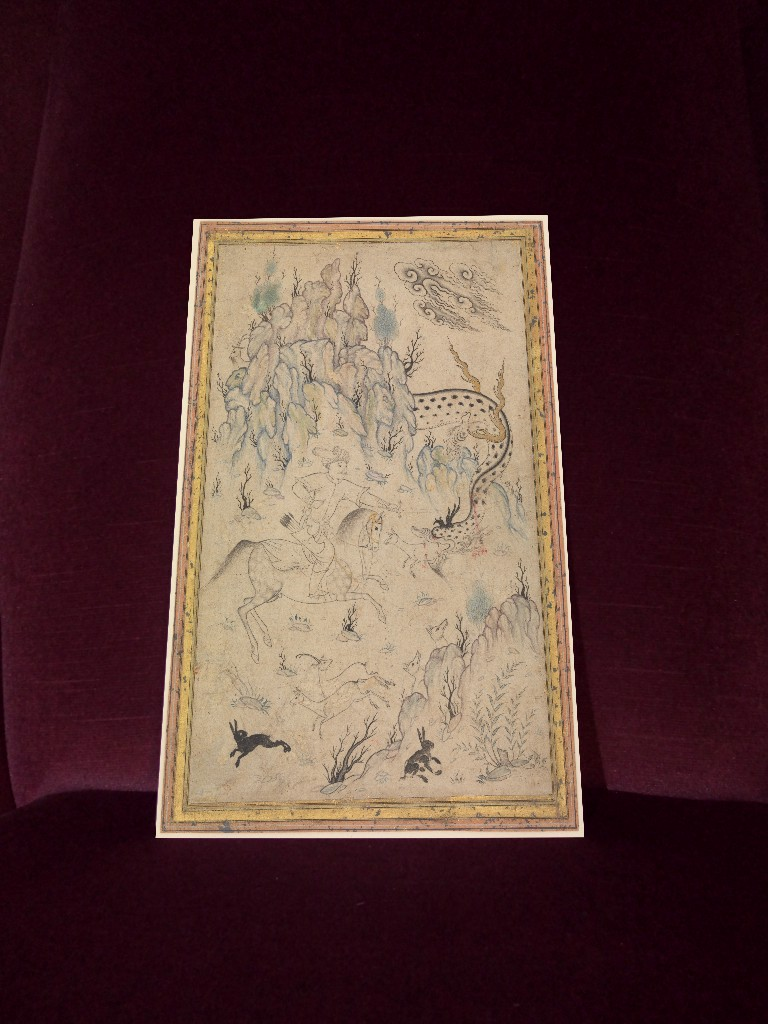
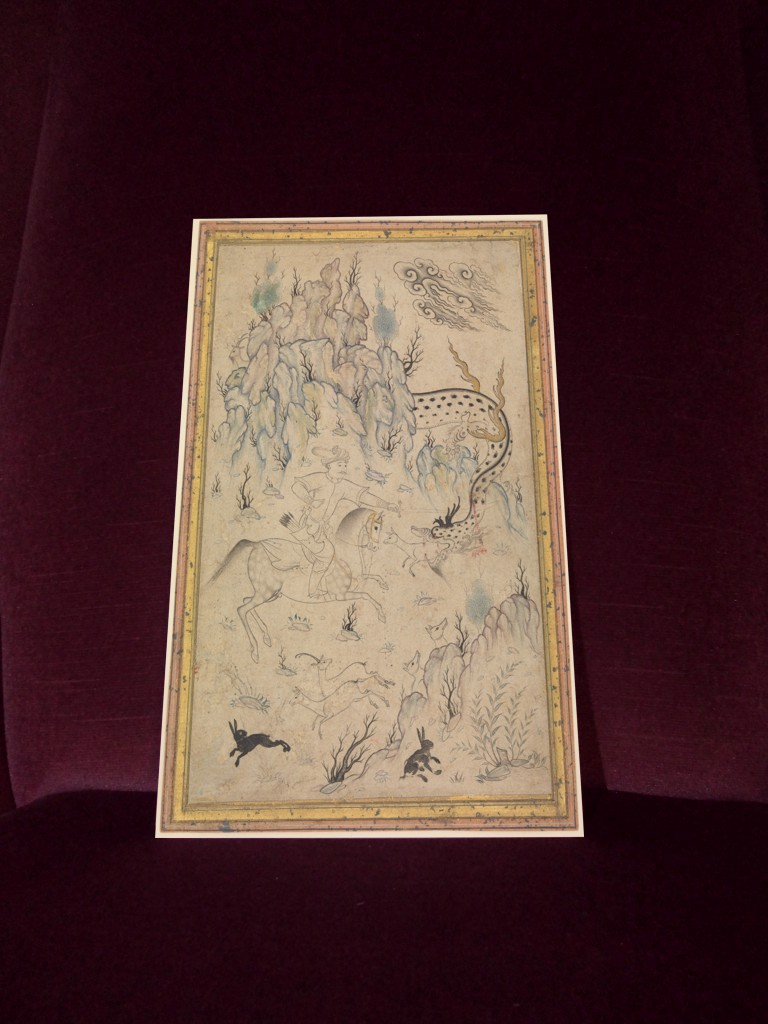
Fix the artifacts from scaling in the perspective transform based on solution here https://github.com/SixLabors/ImageSharp/discussions/1645 Save the actual output so it can be easily manually compared to expected output.

diff --git a/ImageTransforms.cs b/ImageTransforms.cs
@@ -67,6 +67,14 @@ namespace AppraisalBot
             return PerspectiveTransform(sourceArtImage, photoImage, newTopLeft, newTopRight, newBottomLeft, newBottomRight);
         }
 
+        public static float GetScaleFactor(float sourceWidth, float sourceHeight, Vector2 newBottomRight)
+        {
+            float widthFactor = sourceWidth / newBottomRight.X;
+            float heightFactor = sourceHeight / newBottomRight.Y;
+
+            return Math.Min(widthFactor, heightFactor);
+        }
+
         public static Bitmap PerspectiveTransform(Bitmap sourceArtImage, Bitmap destinationImage, Vector2 newTopLeft, Vector2 newTopRight, Vector2 newBottomLeft, Vector2 newBottomRight)
         {
             // Corner numbering chosen arbitrarily
@@ -82,7 +90,11 @@ namespace AppraisalBot
                 newBottomLeft,
                 newBottomRight);
 
-            sourceArtImage.Mutate(x => x.Transform(new ProjectiveTransformBuilder().AppendMatrix(newMatrix), SixLabors.ImageSharp.Processing.KnownResamplers.Spline));
+            float scaleFactor = GetScaleFactor(sourceArtImage.Width, sourceArtImage.Height, newBottomRight);
+
+            sourceArtImage.Mutate(x => x.Transform(new ProjectiveTransformBuilder().AppendMatrix(newMatrix).AppendScale(scaleFactor), SixLabors.ImageSharp.Processing.KnownResamplers.Spline));
+
+            sourceArtImage.Mutate(x => x.Resize((int)(sourceArtImage.Width / scaleFactor), (int)(sourceArtImage.Height / scaleFactor)));
 
             destinationImage.Mutate(x => x.DrawImage(sourceArtImage, 1.0f));
 

diff --git a/test/TestImageTransforms.cs b/test/TestImageTransforms.cs
@@ -46,6 +46,7 @@ namespace AppraisalBot
         public static void TransformImageAcceptanceTest()
         {
             Bitmap actualImage = TestImageTransformUtils.TransformImage();
+            Program.SaveTestImage(actualImage, "perspectiveTransformActual.jpg");
 
             Bitmap expectedImage = Program.LoadImage(Program.LoadImageType.Test, "perspectiveTransformExpected.jpg");
 
@@ -56,6 +57,8 @@ namespace AppraisalBot
         public static void ComposeOntoBackgroundAcceptanceTest()
         {
             Bitmap actualImage = TestImageTransformUtils.ComposeOntoBackground();
+
+            Program.SaveTestImage(actualImage, "composedImageActual.jpg");
 
             Bitmap expectedImage = Program.LoadImage(Program.LoadImageType.Test, "composedImageExpected.jpg");
 

diff --git a/Program.cs b/Program.cs
@@ -574,6 +574,11 @@ namespace AppraisalBot
             }
         }
 
+        public static void SaveTestImage(Bitmap image, string fileName)
+        {
+            image.Save("../../../testArt/" + fileName);
+        }
+
         public static bool IsRunningTests()
         {
             return Assembly.GetEntryAssembly().GetName().Name.Contains("test");
